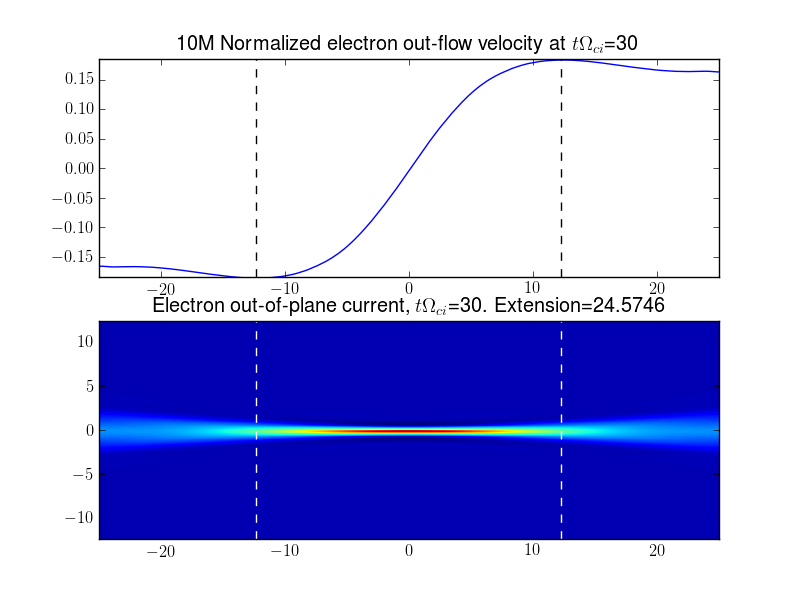
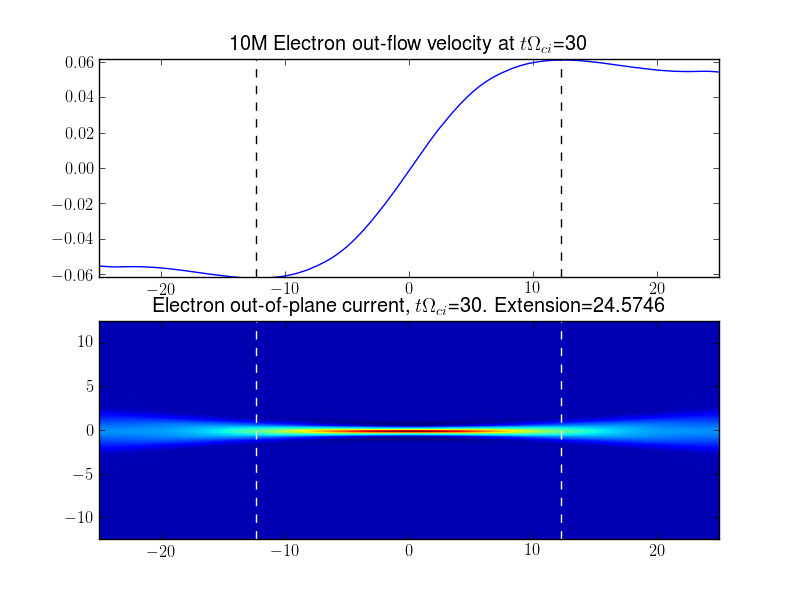
- Updated plotting scripts - Updated notes (mainly formatting changes to make fonts bigger etc) - Plotted normalized Alfven velocity

diff --git a/je/je18/tiddlynotes/guide-free-reconnection.html b/je/je18/tiddlynotes/guide-free-reconnection.html
@@ -540,7 +540,26 @@ merge(config.commands.cancelTiddler,{
 //}}}
 </pre>
 </div>
-<div title="Current sheet extension with five-moment model" modifier="AmmarHakim" created="201309051707" modified="201309051737" tags="five-moment" changecount="7">
+<div title="ColorPalette" modifier="AmmarHakim" created="201309052324" changecount="1">
+<pre>Name: MptwTeal
+Background: #fff
+Foreground: #000
+PrimaryPale: #B5D1DF
+PrimaryLight: #618FA9
+PrimaryMid: #1a3844
+PrimaryDark: #000
+SecondaryPale: #ffc
+SecondaryLight: #fe8
+SecondaryMid: #db4
+SecondaryDark: #841
+TertiaryPale: #f8f8f8
+TertiaryLight: #bbb
+TertiaryMid: #999
+TertiaryDark: #888
+Error: #f88
+</pre>
+</div>
+<div title="Current sheet extension with five-moment model" modifier="AmmarHakim" created="201309051707" modified="201309052228" tags="five-moment" changecount="8">
 <pre>The following figure shows the extension of the current sheet as measured in the five-moment simulation. The extension was defined in the same way as used in the [[Sullivan2009]] paper.
 
 [img[s280_extension.png]]</pre>
@@ -553,12 +572,14 @@ merge(config.commands.cancelTiddler,{
 <div title="Daughton2006" modifier="AmmarHakim" created="201309051713" changecount="1">
 <pre>Daughton, W., Scudder, J., &amp; Karimabadi, H. (2006). &quot;Fully kinetic simulations of undriven magnetic reconnection with open boundary conditions.&quot; Physics of Plasmas, ''13''(7), 072101. doi:10.1063/1.2218817</pre>
 </div>
-<div title="DefaultTiddlers" modifier="AmmarHakim" created="201309051640" modified="201309051741" changecount="6">
+<div title="DefaultTiddlers" modifier="AmmarHakim" created="201309051640" modified="201309060122" changecount="8">
 <pre>[[Introduction]]
 [[Problem setup]]
 [[Current sheet extension with five-moment model]]
 [[Current sheet extension with ten-moment model]]
-[[Width of the current sheet]]</pre>
+[[Width of the current sheet]]
+[[Normalized outflow velocity for five-moment model]]
+[[Normalized outflow velocity for ten-moment model]]</pre>
 </div>
 <div title="ExtendTagButtonPlugin" modifier="MPTW" created="201306162218" modified="201306162244" tags="systemConfig">
 <pre>/***
@@ -874,7 +895,10 @@ window.getBackupPath = function(localPath) {
 //}}}
 </pre>
 </div>
-<div title="Maxwell equations" modifier="AmmarHakim" created="201309051755" modified="201309051822" changecount="2">
+<div title="MainMenu" modifier="AmmarHakim" created="201309060120" modified="201309060122" changecount="3">
+<pre>[[DefaultTiddlers]]</pre>
+</div>
+<div title="Maxwell equations" modifier="AmmarHakim" created="201309051755" modified="201309060137" changecount="3">
 <pre>The Maxwell equations determine the electromagnetic field. They can be written as
 \begin{align}
   \frac{\partial \mathbf{B}}{\partial t} + \nabla\times\mathbf{E} &amp;= 0 \\
@@ -882,7 +906,7 @@ window.getBackupPath = function(localPath) {
   \nabla\times\mathbf{B} &amp;= -\mu_0\mathbf{J}
 \end{align}
 
-In the code the Perfectly Hyperbolic Maxwell equations, listed below are solved.
+In the code the Perfectly Hyperbolic Maxwell equations, listed below, are solved.
 \begin{align}
   \frac{\partial \mathbf{B}}{\partial t} + \nabla\times\mathbf{E} +
   \gamma \nabla\psi
@@ -1587,6 +1611,26 @@ config.macros.newTiddler.onClickNewTiddler = function()
 //}}}
 </pre>
 </div>
+<div title="Normalized outflow velocity for five-moment model" modifier="AmmarHakim" created="201309052227" modified="201309052231" tags="five-moment" changecount="4">
+<pre>The local normalized outflow velocity of the electrons can be computed as
+\begin{align}
+U \equiv u_x/v_{Ae}
+\end{align}
+where \(v_{Ae} \equiv B^2/\sqrt{\mu_0 m_e n_e}\) is the Alfven velocity computed using the electron mass. This is shown in the following figure. Note that the electron outflow velocity peaks to about the local electron Alfven velocity.
+
+[img[s280_normvx.png]]</pre>
+</div>
+<div title="Normalized outflow velocity for ten-moment model" modifier="AmmarHakim" created="201309052230" modified="201309052231" tags="ten-moment" changecount="2">
+<pre>The local normalized outflow velocity of the electrons can be computed as
+\begin{align}
+U \equiv u_x/v_{Ae}
+\end{align}
+where \(v_{Ae} \equiv B^2/\sqrt{\mu_0 m_e n_e}\) is the Alfven velocity computed using the electron mass. This is shown in the following figure. 
+
+Note that the electron outflow velocity now peaks to a lower values than it does for the five-moment model. See [[Normalized outflow velocity for five-moment model]].
+
+[img[s279_normvx.png]]</pre>
+</div>
 <div title="PluginMathJax" modifier="AmmarHakim" created="201309051642" modified="201309051657" tags="systemConfig" changecount="2">
 <pre>/***
 |''Name''|PluginMathJax|
@@ -2041,14 +2085,80 @@ config.macros.refreshAll = { handler: function(place,macroName,params,wikifier,p
 //}}}
 </pre>
 </div>
+<div title="SideBarOptions" modifier="AmmarHakim" created="201309060133" changecount="1">
+<pre>&lt;&lt;search&gt;&gt;&lt;&lt;closeAll&gt;&gt;&lt;&lt;permaview&gt;&gt;&lt;&lt;newTiddler&gt;&gt;&lt;&lt;newJournal &quot;DD MMM YYYY&quot; &quot;journal&quot;&gt;&gt;&lt;&lt;saveChanges&gt;&gt;&lt;&lt;slider chkSliderOptionsPanel OptionsPanel &quot;options »&quot; &quot;Change TiddlyWiki advanced options&quot;&gt;&gt;</pre>
+</div>
+<div title="SideBarTabs" modifier="AmmarHakim" created="201309060131" modified="201309060132" changecount="2">
+<pre>&lt;&lt;tabs txtMainTab &quot;Timeline&quot; &quot;Timeline&quot; TabTimeline &quot;All&quot; &quot;All tiddlers&quot; TabAll &quot;Tags&quot; &quot;All tags&quot; TabTags &quot;More&quot; &quot;More lists&quot; TabMore&gt;&gt;</pre>
+</div>
 <div title="SiteSubtitle" modifier="AmmarHakim" created="201309051639" modified="201309051639" changecount="2">
 <pre>With Five- and ~Ten-Moment Models</pre>
 </div>
 <div title="SiteTitle" modifier="AmmarHakim" created="201309051639" modified="201309051720" changecount="3">
 <pre>Magnetic Reconnection</pre>
 </div>
+<div title="StyleSheet" modifier="AmmarHakim" created="201309060102" changecount="1">
+<pre>/***
+This fixes a problem with the tabs slider
+***/
+/*{{{*/
+#sidebarTabs .button {
+margin:0em 0.2em;
+padding:0.2em 0.3em;
+display:block;
+}
+/*}}}*/
+/***
+This is a sample style definition to demonstrate [[CustomCssClass|CSS Formatting]] formatting
+***/
+/*{{{*/
+.wrappingClass {color: #666; background: #bbb;}
+/*}}}*/
+/***
+Prettyify
+***/
+/*{{{*/
+body {
+	font-size: 0.92em;
+	margin-bottom: 4em;
+}
+
+.tiddler .viewer {
+	font-size: 1.1em;
+}
+
+#contentWrapper .chunkyButton {
+	width: auto;
+}
+
+#contentWrapper span.chunkyButton {
+	border: none;
+}
+
+#contentWrapper span.chunkyButton a.button, #contentWrapper span.chunkyButton a:active.button {
+	font-weight: bold;
+	font-size: 1.3em;
+	color: [[ColorPalette::Background]];
+	background-color: [[ColorPalette::QuaternaryMid]];
+	text-align: center;
+	padding: 0.5em 1em;
+	border-radius: 1ex;
+	border-style: none !important;
+}
+
+#contentWrapper span.chunkyButton a.button:hover {
+	background-color: [[ColorPalette::QuaternaryDark]];
+	color: [[ColorPalette::Background]];
+	border-style: none !important;
+}
+
+/*}}}*/</pre>
+</div>
 <div title="Sullivan2009" modifier="AmmarHakim" created="201309051711" modified="201309051713" changecount="3">
 <pre>Sullivan, B. P., Bhattacharjee, A., &amp; Huang, Y.-M. (2009). &quot;Extension of the electron dissipation region in collisionless Hall magnetohydrodynamics reconnection.&quot; Physics of Plasmas, ''16''(10), 102111. doi:10.1063/1.3251423</pre>
+</div>
+<div title="TabTimeline" modifier="AmmarHakim" created="201309060134" changecount="1">
+<pre>&lt;&lt;timeline&gt;&gt;</pre>
 </div>
 <div title="TagglyTaggingPlugin" modifier="MPTW" created="201306162218" modified="201306162244" tags="systemConfig">
 <pre>/***

diff --git a/sims/s279/mkjzplots.py b/sims/s279/mkjzplots.py
@@ -46,12 +46,20 @@ title('Electron out-of-plane current, $t\Omega_{ci}$=%g. Extension=%g' % (tm,xte
 
 #figure(2)
 subplot(2,1,1)
-plot(X, ux1/va)
+plot(X, ux1)
 axis('tight')
 yl = gca().get_ylim()
 plot([minx,minx], yl, '--k')
 plot([maxx,maxx], yl, '--k')
-title('10M Normalized electron out-flow velocity at $t\Omega_{ci}$=%g' % tm)
+title('10M Electron out-flow velocity at $t\Omega_{ci}$=%g' % tm)
 savefig('s279_extension.png')
+
+figure(2)
+Bfld = sqrt(q[:,:,23]**2+q[:,:,24]**2+q[:,:,25]**2)
+uxNorm = ux/(Bfld/sqrt(mu0*elcMass*q[:,:,0]))
+plot(X, uxNorm[:,250])
+axis('tight')
+title('10M Normalized electron out-flow velocity at $t\Omega_{ci}$=%g' % tm)
+savefig('s279_normvx.png')
 
 show()

diff --git a/sims/s280/mkjzplots.py b/sims/s280/mkjzplots.py
@@ -46,12 +46,20 @@ title('Electron out-of-plane current, $t\Omega_{ci}$=%g. Extension=%g' % (tm,xte
 
 #figure(2)
 subplot(2,1,1)
-plot(X, ux1/va)
+plot(X, ux1)
 axis('tight')
 yl = gca().get_ylim()
 plot([minx,minx], yl, '--k')
 plot([maxx,maxx], yl, '--k')
-title('5M Normalized electron out-flow velocity at $t\Omega_{ci}$=%g' % tm)
+title('5M Electron out-flow velocity at $t\Omega_{ci}$=%g' % tm)
 savefig('s280_extension.png')
+
+figure(2)
+Bfld = sqrt(q[:,:,13]**2+q[:,:,14]**2+q[:,:,15]**2)
+uxNorm = ux/(Bfld/sqrt(mu0*elcMass*q[:,:,0]))
+plot(X, uxNorm[:,250])
+axis('tight')
+title('5M Normalized electron out-flow velocity at $t\Omega_{ci}$=%g' % tm)
+savefig('s280_normvx.png')
 
 show()
